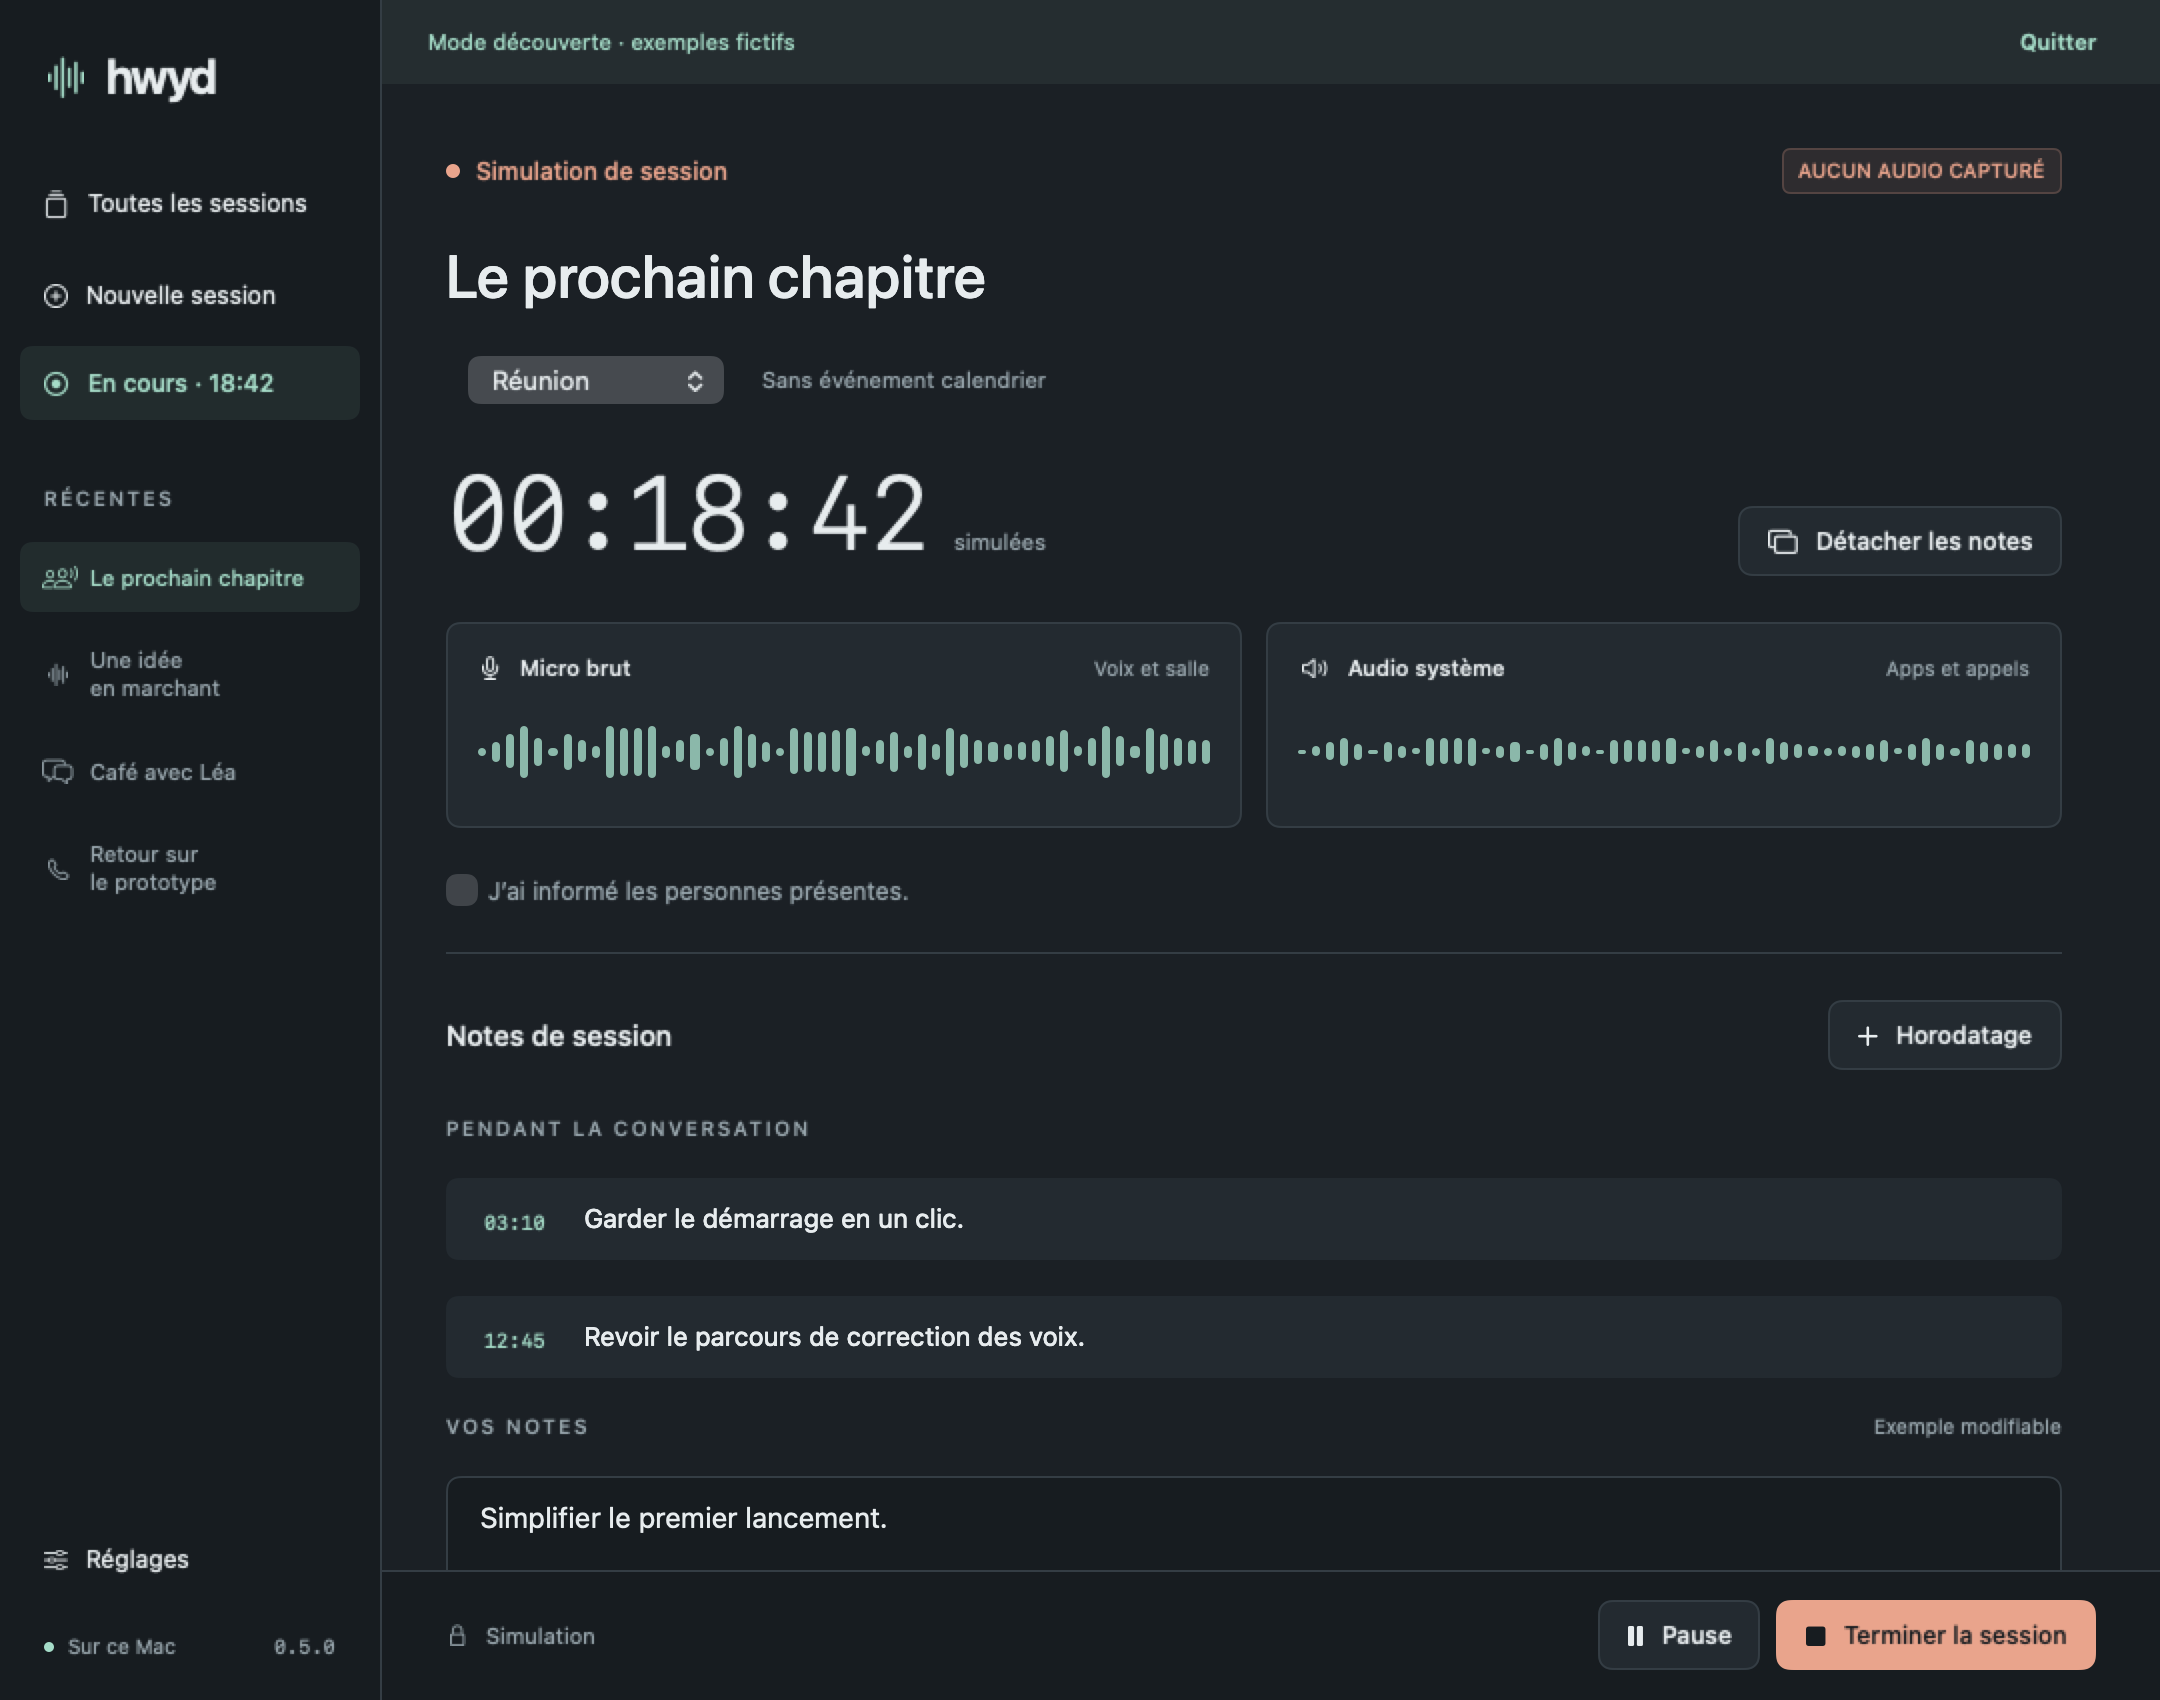
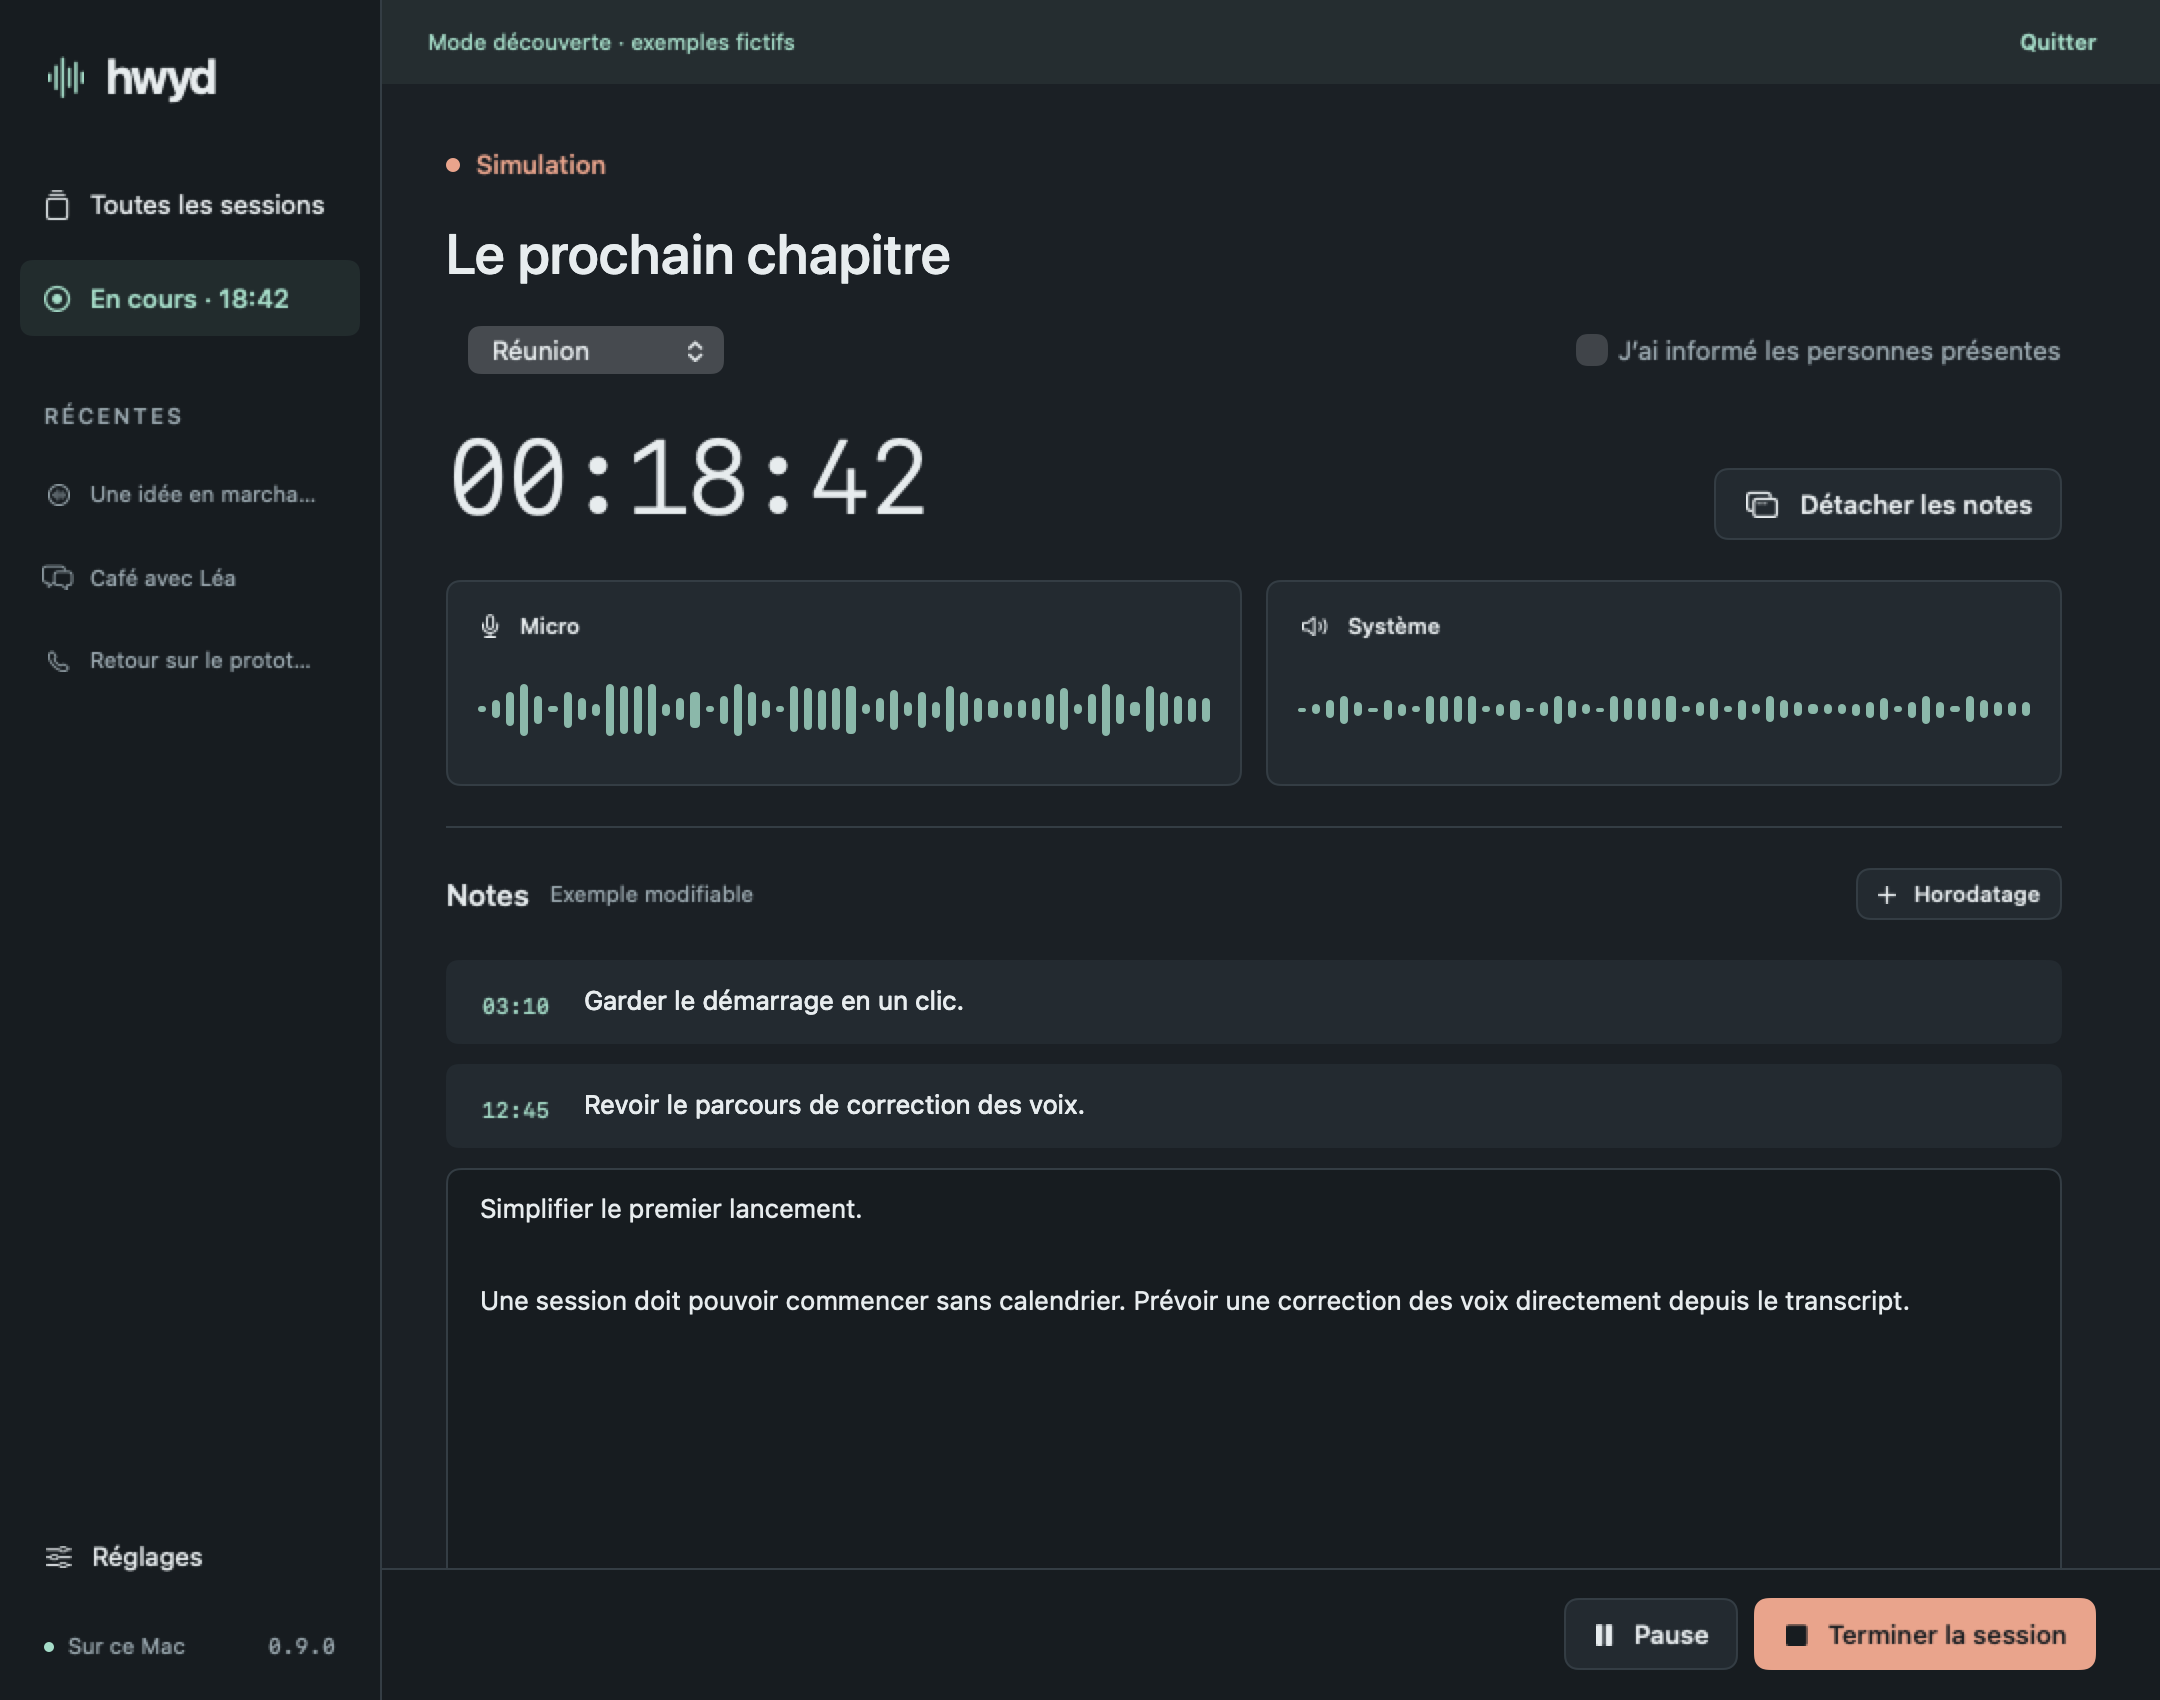
docs(site): refresh screenshots for 0.9.0
Replace the removed voice identity panel with voice tiles and remembered
people, and add the new session screen and stacked notifications.

diff --git a/site/index.html b/site/index.html
@@ -55,13 +55,16 @@
   <p class="eyebrow">A QUICK TOUR</p><h2>Every screen,<br>one quiet place.</h2>
   <div class="tour-grid">
     <figure class="tour-menu"><img src="assets/menu-bar.png" width="680" height="700" loading="lazy" alt="Menu bar popover during a session, with Pause, End session, Open notes, Open sessions and Settings."><figcaption><b>Menu bar.</b> Pause, end or open your notes without leaving the app you are in.</figcaption></figure>
+    <figure><img src="assets/new-session.png" width="2160" height="1580" loading="lazy" alt="New session screen with session type choices, an optional name and a button to start recording."><figcaption><b>New session.</b> Pick a type, name it if you want, then start. Nothing is captured before you press the button.</figcaption></figure>
     <figure><img src="assets/capture.png" width="2160" height="1700" loading="lazy" alt="Recording view with a large timer, microphone and system audio levels, consent checkbox and session notes."><figcaption><b>Recording.</b> Live levels for both tracks, timestamped notes and a pause that keeps the session open.</figcaption></figure>
     <figure><img src="assets/library.png" width="2160" height="1540" loading="lazy" alt="Session library in light mode with search, type filter and sessions grouped by day."><figcaption><b>Library.</b> Search titles and what was said, filter by type, browse by day.</figcaption></figure>
     <figure><img src="assets/summary.png" width="2160" height="1580" loading="lazy" alt="Summary tab with an overview, a topic section and decisions, each followed by source timestamps."><figcaption><b>Summary.</b> A local draft where every point links back to its source timestamps.</figcaption></figure>
-    <figure class="tour-wide"><img src="assets/calendar-upcoming.png" width="1560" height="260" loading="lazy" alt="Upcoming calendar event with a Record button."><figcaption><b>Calendar.</b> Upcoming events can be recorded in one click. Linking a session to an event stays optional.</figcaption></figure>
+    <figure><img src="assets/notifications.png" width="2160" height="1580" loading="lazy" alt="Stacked notifications in the corner of the window: a summary error with Retry and Settings, a ready summary and a voice correction."><figcaption><b>Notifications.</b> Messages stack in the corner. Those that need a decision carry their buttons and stay until answered.</figcaption></figure>
+    <figure class="tour-wide"><img src="assets/calendar-upcoming.png" width="1560" height="420" loading="lazy" alt="Upcoming calendar event with a Record button."><figcaption><b>Calendar.</b> Upcoming events can be recorded in one click. Linking a session to an event stays optional.</figcaption></figure>
+    <figure class="tour-wide"><img src="assets/voice-tiles.png" width="2080" height="220" loading="lazy" alt="Voice tiles for a session: an unnamed voice, a suggested match to confirm, a named voice and an ignored voice."><figcaption><b>Voices.</b> Name, confirm or ignore each voice from its tile. A voice is remembered only when you choose to, and every suggestion needs your confirmation.</figcaption></figure>
     <figure class="tour-tall"><img src="assets/notepad.png" width="1000" height="1300" loading="lazy" alt="Floating notepad window during a session, with timer, timestamped notes, Pause and End session."><figcaption><b>Floating notepad.</b> Detach your notes beside the call and add a timestamp in one click.</figcaption></figure>
-    <figure class="tour-tall"><img src="assets/voice-identity.png" width="1220" height="1400" loading="lazy" alt="Voice identity window with channel picker, voice enrollment form and remembered people."><figcaption><b>Voice identity.</b> Remember a voice only when you choose to. Every suggestion needs your confirmation.</figcaption></figure>
-    <figure><img src="assets/settings-audio.png" width="2160" height="1580" loading="lazy" alt="Audio and voice settings: capture mode, local Apple Speech transcription and voice separation."><figcaption><b>Audio and voice.</b> Local transcription and voice separation, configured on your Mac.</figcaption></figure>
+    <figure><img src="assets/voice-people.png" width="1440" height="600" loading="lazy" alt="Remembered people with the voice samples each session added, Remove buttons, and an excluded person with Lift exclusion."><figcaption><b>Remembered people.</b> See what each session added to a voice print and remove it, erase the print, or exclude the person.</figcaption></figure>
+    <figure><img src="assets/settings-audio.png" width="2160" height="1580" loading="lazy" alt="Audio and voice settings: local Apple Speech transcription, voice separation and remembered people."><figcaption><b>Audio and voice.</b> Local transcription and voice separation, configured on your Mac.</figcaption></figure>
     <figure><img src="assets/settings-agents.png" width="2160" height="1580" loading="lazy" alt="Agents and exports settings with an opt-in for agent edits and an export folder picker."><figcaption><b>Agents and exports.</b> MCP is read-only by default. Pick a folder for Markdown and JSON exports.</figcaption></figure>
   </div>
   <p class="fine">Fictional demo sessions. No microphone is used to produce these images.</p>
